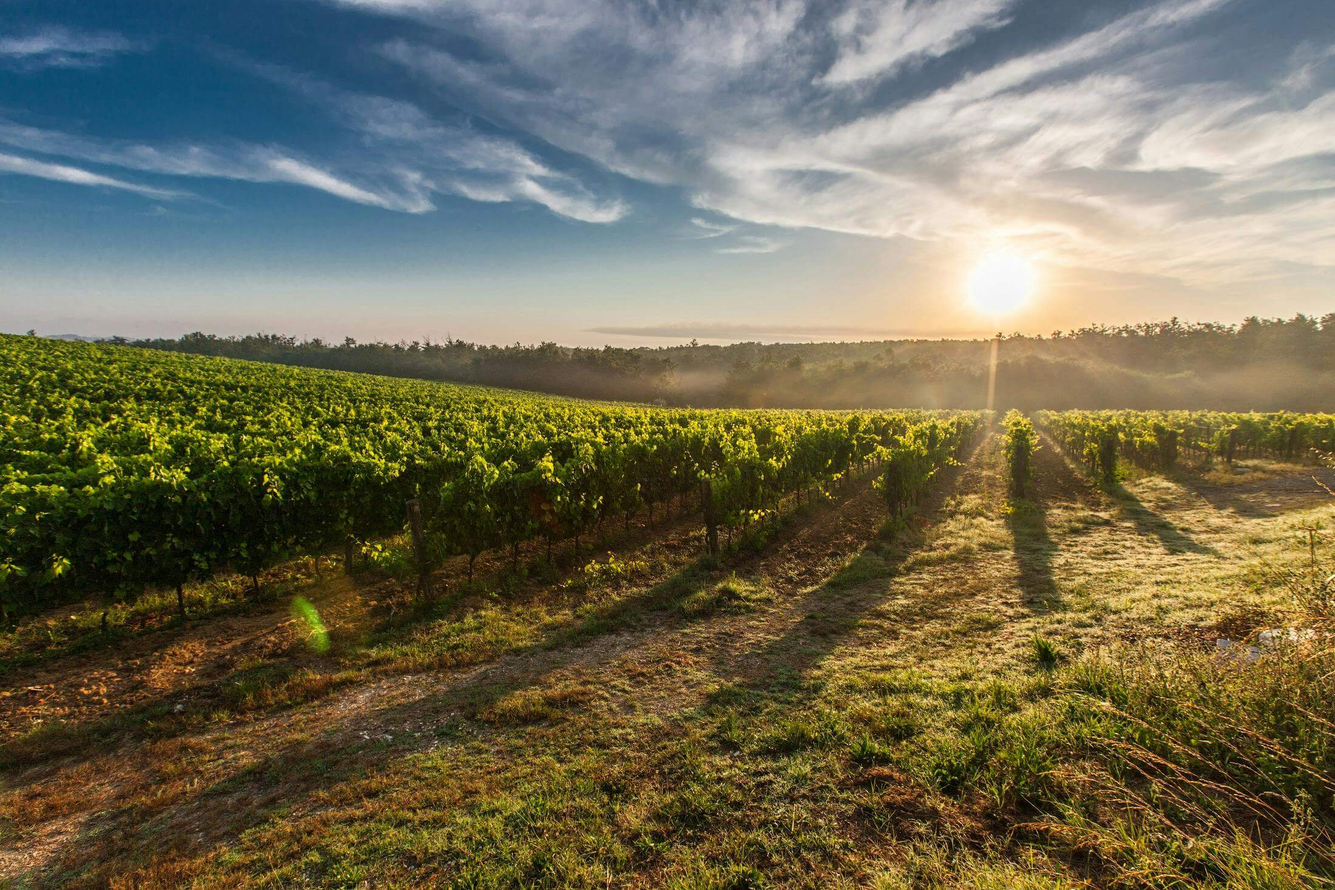
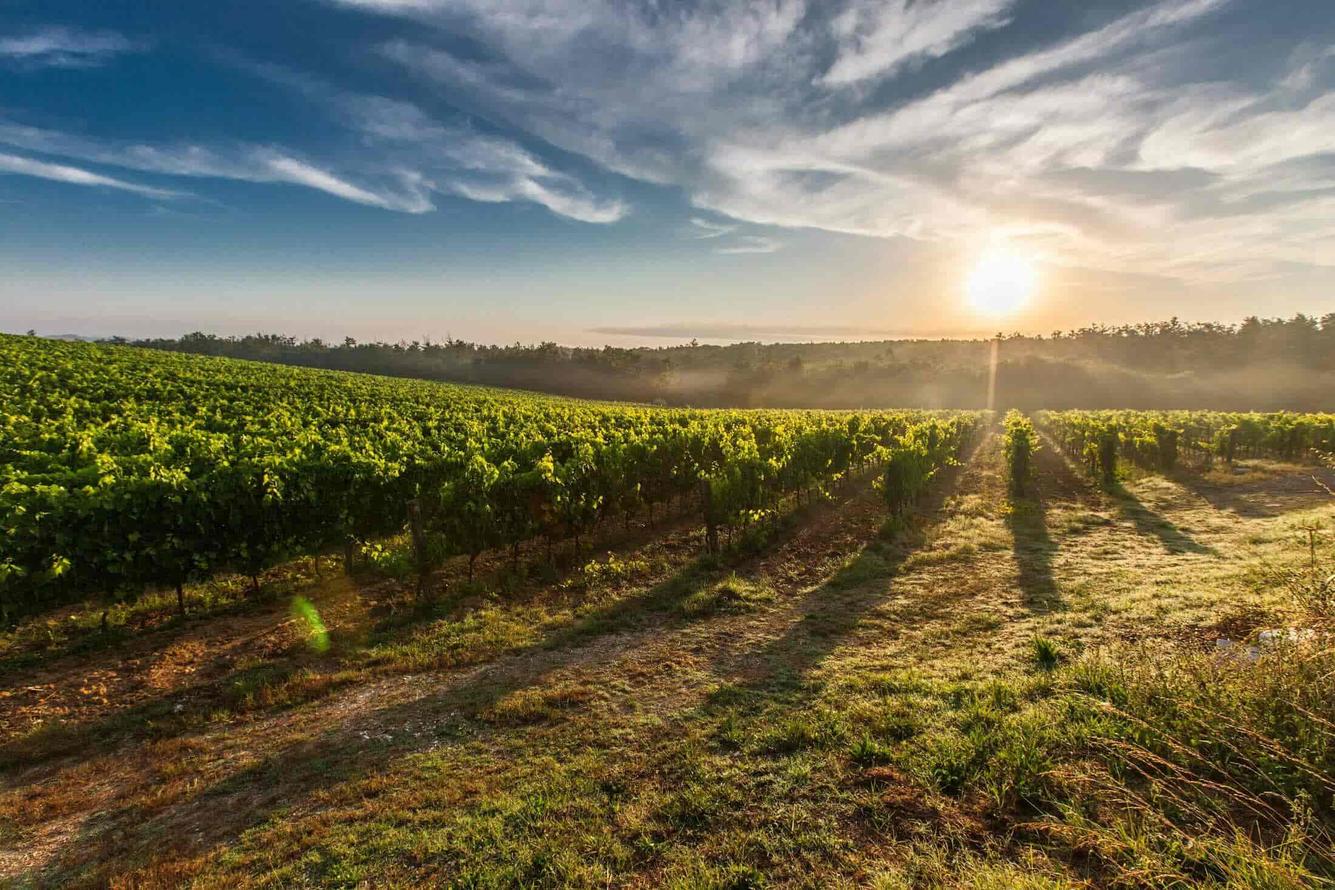
Add Compressed images

diff --git a/src/app/components/HomeSeedlings.tsx b/src/app/components/HomeSeedlings.tsx
@@ -11,7 +11,7 @@ const HomeSeedlings = ({ t }: { t: Translation }) => {
         <div className='flex  justify-center px-4 bg-secondary'>
             <div className='max-w-screen-sw  w-full flex flex-row max-md:flex-col    py-16 max-md:py-2  items-center gap-16 justify-between'>
                 <div className='flex flex-col flex-1 py-8 gap-4'>
-                    <h1 className='font-heading leading-0 text-6xl text-primary py-8 max-lsw:text-5xl max-md:text-4xl font-bold '>Naše sadnice</h1>
+                    <h1 className='font-heading  text-6xl text-primary py-8 max-lsw:text-5xl max-md:text-4xl font-bold '>{t.home.seedlingsTitle}</h1>
                     {/* Mobile image */}
                     <div className=" md:hidden relative full h-[500px] overflow-hidden rounded-md shadow-lg">
                         <Image
@@ -33,11 +33,13 @@ const HomeSeedlings = ({ t }: { t: Translation }) => {
                     <div className='flex flex-col gap-4 '>
                         {t.home.seedlings.map((i, index) => {
                             return (
-                                <div key={index} className='flex flex-row items-center gap-4'>
-                                    <div>
+                                <div key={index} className='flex flex-row  gap-4'>
+                                    <div className=''>
                                         <PiChecksBold color='#0E3A27' size={30} />
                                     </div>
-                                    <p className=' text-[24px] max-md:text-[20px]'>{splitBold(i)}</p>
+                                    <div>
+                                        <p className=' text-[24px] max-md:text-[20px] '>{splitBold(i)}</p>
+                                    </div>
                                 </div>
                             )
                         })}
@@ -68,7 +70,7 @@ const HomeSeedlings = ({ t }: { t: Translation }) => {
                         </div> */}
                     </div>
                     <div className='w-[200px] pt-8'>
-                        <Button label={t.home.seedlingsBtn}/>
+                        <Button label={t.home.seedlingsBtn} />
                     </div>
                 </div>
                 {/* Desktop image */}

diff --git a/src/app/components/Footer.tsx b/src/app/components/Footer.tsx
@@ -4,7 +4,7 @@ import Link from 'next/link'
 import React from 'react'
 import { Translation } from '../[lang]/dictionaries'
 
-const Footer = ({ t}: { t: Translation}) => {
+const Footer = ({ t }: { t: Translation }) => {
   return (
     <div className='bg-primary flex justify-center h-full pt-8'>
       <div className='max-w-screen-sw h-[650px] max-md:h-[900px]  w-full relative'>
@@ -85,21 +85,26 @@ const Footer = ({ t}: { t: Translation}) => {
             </div>
             <div className='flex flex-col items-baseline   max-md:pt-4 max-md:gap-4'>
               <span className='font-light opacity-60 text-secondary-light text-[24px] max-md:text-[18px] md:mb-4'>{t.footer.social}</span>
-              <div className='flex flex-row items-baseline gap-4 '>
-                <Image
-                  src={'/images/home/instagram-icon.svg'}
-                  alt={"Instagram"}
-                  width={30}
-                  height={30}
-                // className="w-full h-full object-cover"
-                />
-                <Image
-                  src={'/images/home/facebook-icon.svg'}
-                  alt={"Facebook"}
-                  width={30}
-                  height={30}
-                // className="w-full h-full object-cover"
-                />
+              <div className='flex flex-row items-baseline gap-4 z-50'>
+                <a href={'https://www.instagram.com/euroduokalem/'} target="_blank" className='hover:opacity-60'>
+                  <Image
+                    src={'/images/home/instagram-icon.svg'}
+                    alt={"Instagram"}
+
+                    width={30}
+                    height={30}
+                  // className="w-full h-full object-cover"
+                  />
+                </a>
+                <a href={'https://www.facebook.com/profile.php?id=61566524104473'} target="_blank" className=' hover:opacity-60'>
+                  <Image
+                    src={'/images/home/facebook-icon.svg'}
+                    alt={"Facebook"}
+                    width={30}
+                    height={30}
+                  // className="w-full h-full object-cover"
+                  />
+                </a>
 
               </div>
             </div>

diff --git a/src/app/components/HomeCarousel.tsx b/src/app/components/HomeCarousel.tsx
@@ -98,9 +98,6 @@ const HomeCarousel: React.FC<HomeCarouselProps> = ({ currentCard, setCurrentCard
                 });
             }
         }
-
-
-        console.log("ww", windowWidth)
     }, [windowWidth])
     const handleTouchStart = (e: React.TouchEvent<HTMLDivElement>) => {
         touchStartX.current = e.touches[0].clientX
@@ -111,7 +108,7 @@ const HomeCarousel: React.FC<HomeCarouselProps> = ({ currentCard, setCurrentCard
     }
     const handleTouchEnd = () => {
         const deltaX = touchStartX.current - touchEndX.current
-        if (deltaX > 50 && currentCard < cardItems.length - 1) {
+        if (deltaX > 50 && currentCard < cardItems.length) {
             setCurrentCard(currentCard + 1) // swipe left
         } else if (deltaX < -50 && currentCard > 0) {
             setCurrentCard(currentCard - 1) // swipe right
@@ -135,7 +132,7 @@ const HomeCarousel: React.FC<HomeCarouselProps> = ({ currentCard, setCurrentCard
                     {
                         cardItems.map((i, index) => {
                             return (
-                                <div key={index} className={` relative flex flex-row justify-between shrink-0 w-full h-full rounded-2xl  ${index === 1 ? 'bg-[#E0F1E2] text-[#245E1D]' : index === 2 ? 'bg-[#f0deec] text-[#330427]' : index === 3 ? 'bg-[#ffd2d5] text-[#9E030C]' : index === 4 ? 'bg-[#ffe5eb] text-[#D20A2E]' : 'bg-[#FFFBE4] text-[#FF910A]'}  hover:cursor-pointer shadow-md hover:shadow-lg transition `}
+                                <div key={index} className={` hover:scale-101 transform  duration-300 relative flex flex-row justify-between shrink-0 w-full h-full rounded-2xl  ${index === 1 ? 'bg-[#E0F1E2] text-[#245E1D]' : index === 2 ? 'bg-[#f0deec] text-[#330427]' : index === 3 ? 'bg-[#ffd2d5] text-[#9E030C]' : index === 4 ? 'bg-[#ffe5eb] text-[#D20A2E]' : 'bg-[#FFFBE4] text-[#FF910A]'}  hover:cursor-pointer shadow-md hover:shadow-lg transition `}
                                     onMouseEnter={() => animateHover(index, true)}
                                     onMouseLeave={() => animateHover(index, false)}>
                                     <div className='w-[370px] max-md:w-[200px] '>

diff --git a/src/app/components/ui/ImageCarousel.tsx b/src/app/components/ui/ImageCarousel.tsx
@@ -9,12 +9,8 @@ import { useEffect, useRef, useState } from 'react';
 const images = [
     { src: '/images/home/carousel1.jpg', alt: 'Slide 1' },
     { src: '/images/home/carousel2.jpg', alt: 'Slide 2' },
-    { src: '/images/home/landing.png', alt: 'Slide 3' },
     { src: '/images/home/carousel3.jpg', alt: 'Slide 4' },
-    { src: '/images/home/carousel4.jpg', alt: 'Slide 5' },
-    { src: '/images/home/carousel5.jpg', alt: 'Slide 6' },
     { src: '/images/home/carousel8.jpg', alt: 'Slide 7' },
-    { src: '/images/home/carousel6.jpg', alt: 'Slide 8' },
 ];
 const SLIDE_DURATION = 4000;
 

diff --git a/src/app/[lang]/page.tsx b/src/app/[lang]/page.tsx
@@ -46,7 +46,7 @@ export default async function Home({ params }: PageProps) {
       <div className="absolute top-0 w-full">
         <Landing t={t}/>
       </div>
-      <div className="mt-[636px] max-md:mt-[420px]">
+      <div className="mt-[636px] max-md:mt-[445px]">
         <HeaderLabel t={t}/>
         <HeadingHome t={t}/>
       </div>
